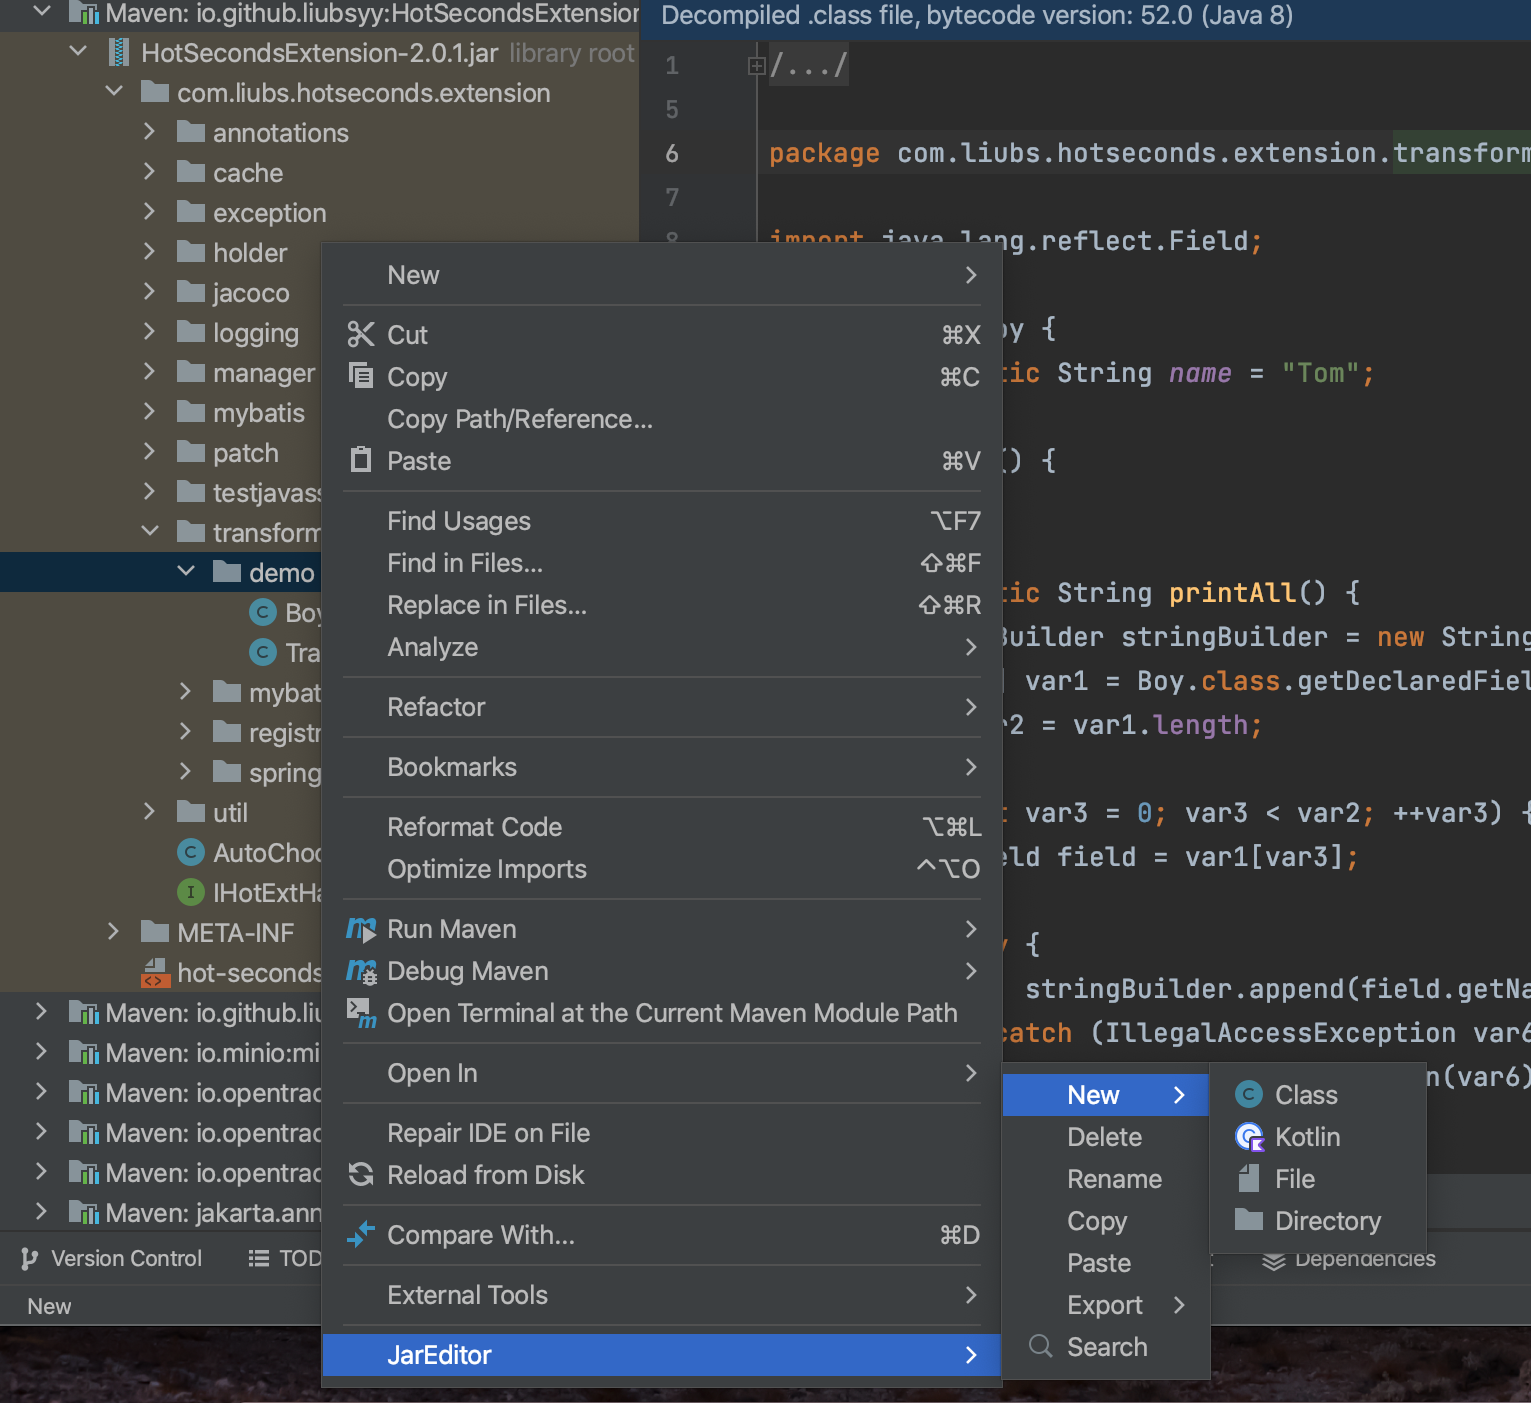
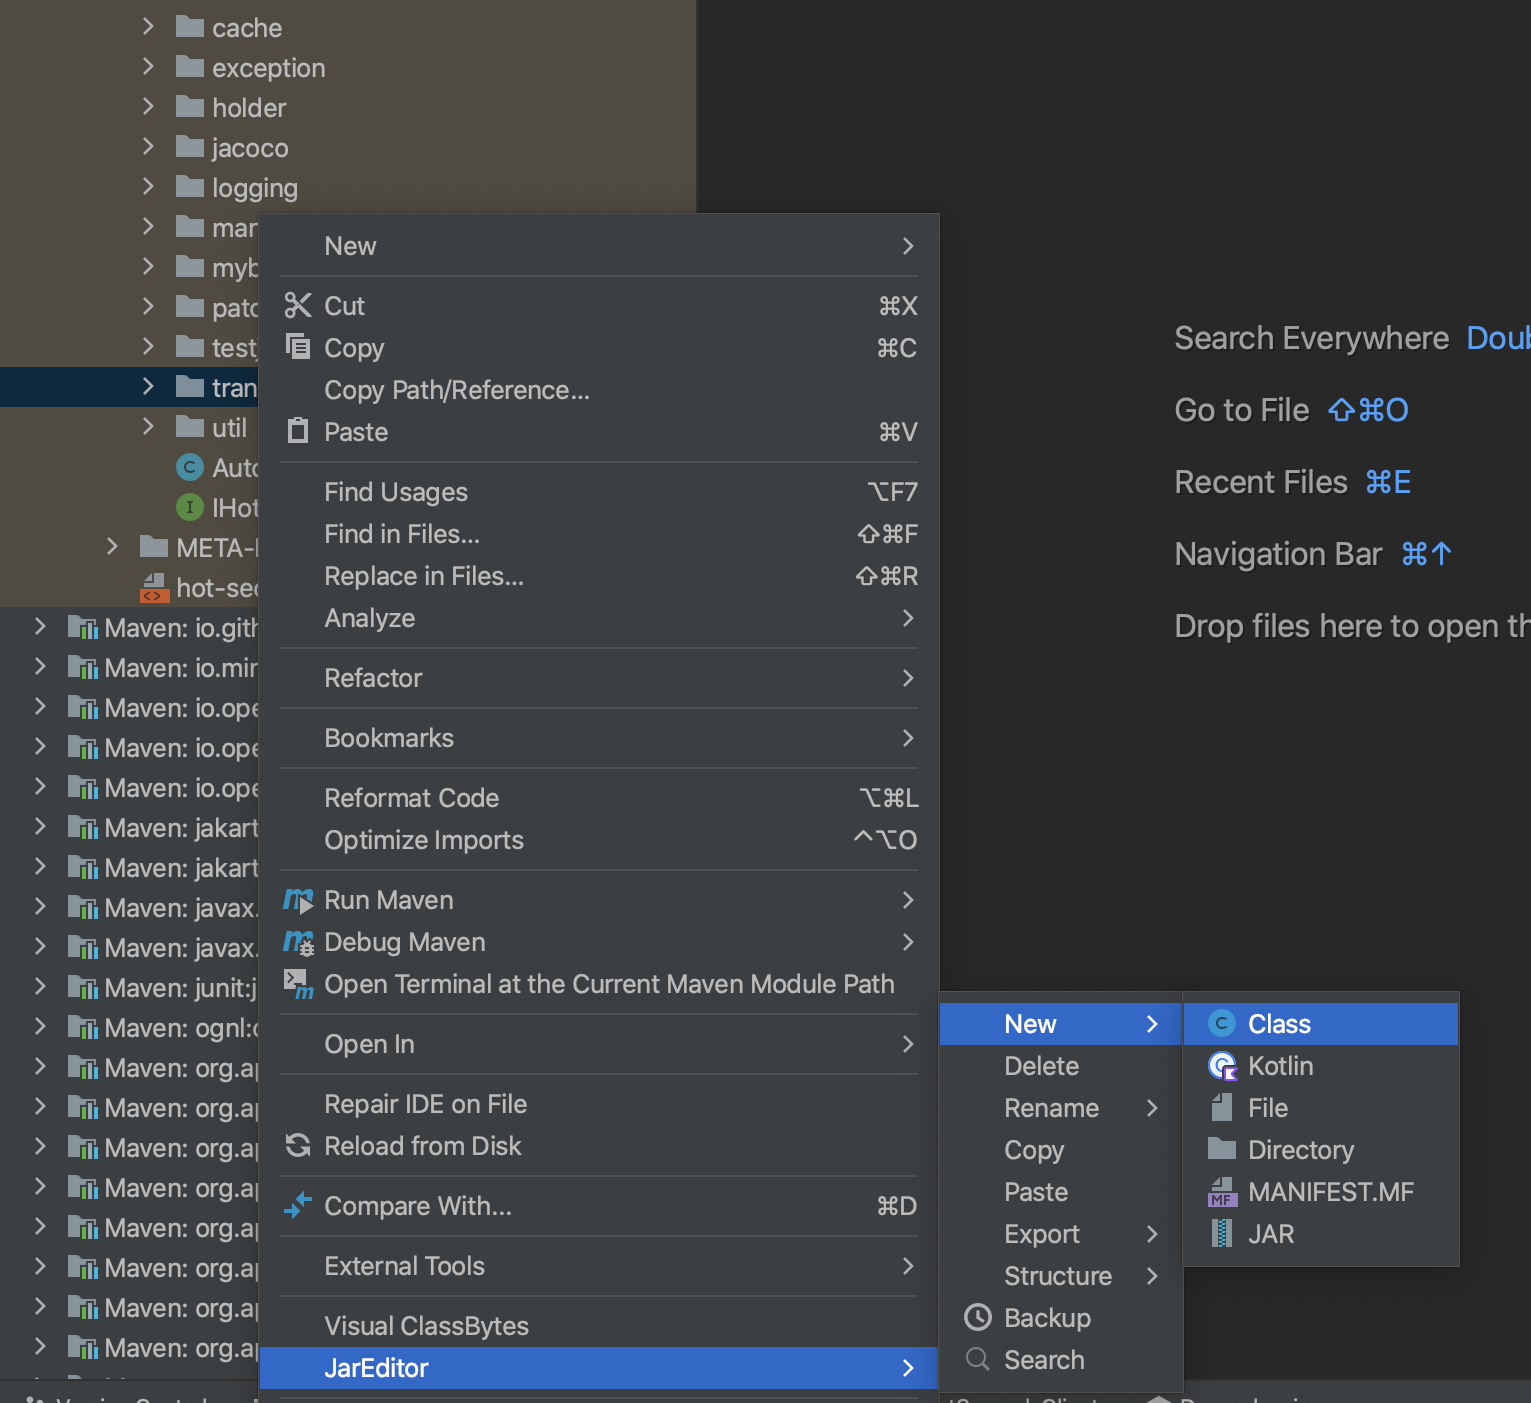
README

Changed region(s): [[0.0, 0.0, 1.0, 1.0], [0.4912, 0.0919, 1.0, 0.1226], [0.921, 0.5517, 0.9824, 0.5823]]

diff --git a/README.md b/README.md
@@ -71,7 +71,7 @@ Click the **Class bytes tool** icon to select the tool
 
 
 ### 4. Other operations of JarEditor
-In the project view of the jar package, right-click to see **JarEditor->New/Delete** and other operations, where you can add/delete/rename/copy/paste/export files.
+In the project view of the jar package, right-click to see **JarEditor->New/Delete** and other operations, where you can add/delete/rename/copy/paste/export/backup files.
 
 <img src="./img/JarEditor_new_delete.png" width="600" height="550" />
 

diff --git a/README_CN.md b/README_CN.md
@@ -67,7 +67,7 @@
 <img src="./img/vcb_main.png" width="800" height="600" />
 
 ### 4. 其他操作
-在jar包的项目视图中，右键可以看到**JarEditor->New/Delete**等操作，可以在jar内添加/删除/重命名/复制/粘贴/导出文件。
+在jar包的项目视图中，右键可以看到**JarEditor->New/Delete**等操作，可以在jar内添加/删除/重命名/复制/粘贴/导出/备份文件。
 
 <img src="./img/JarEditor_new_delete.png" width="600" height="550" />
 
